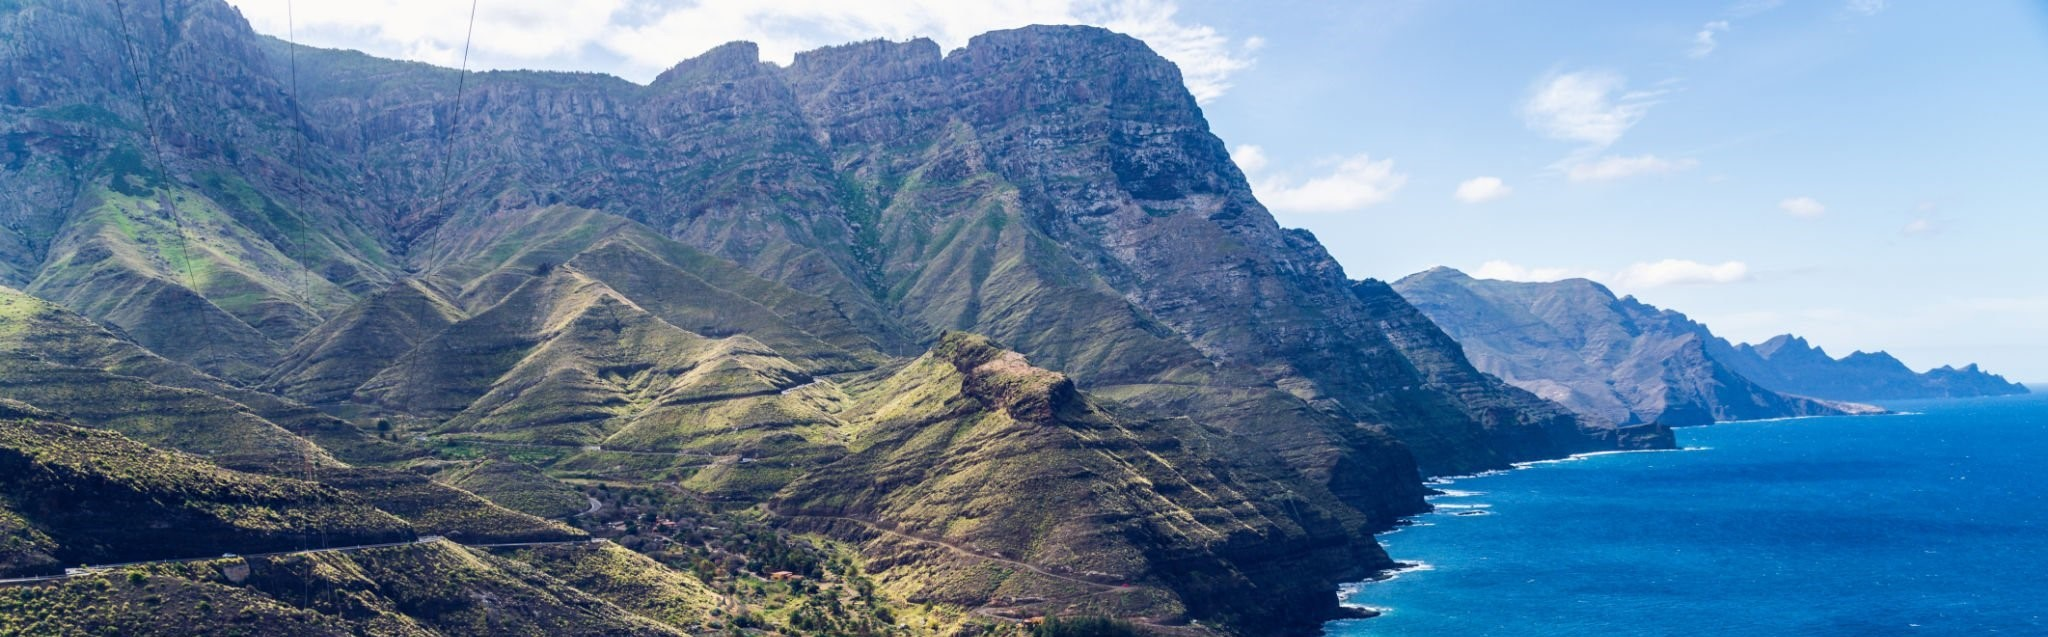
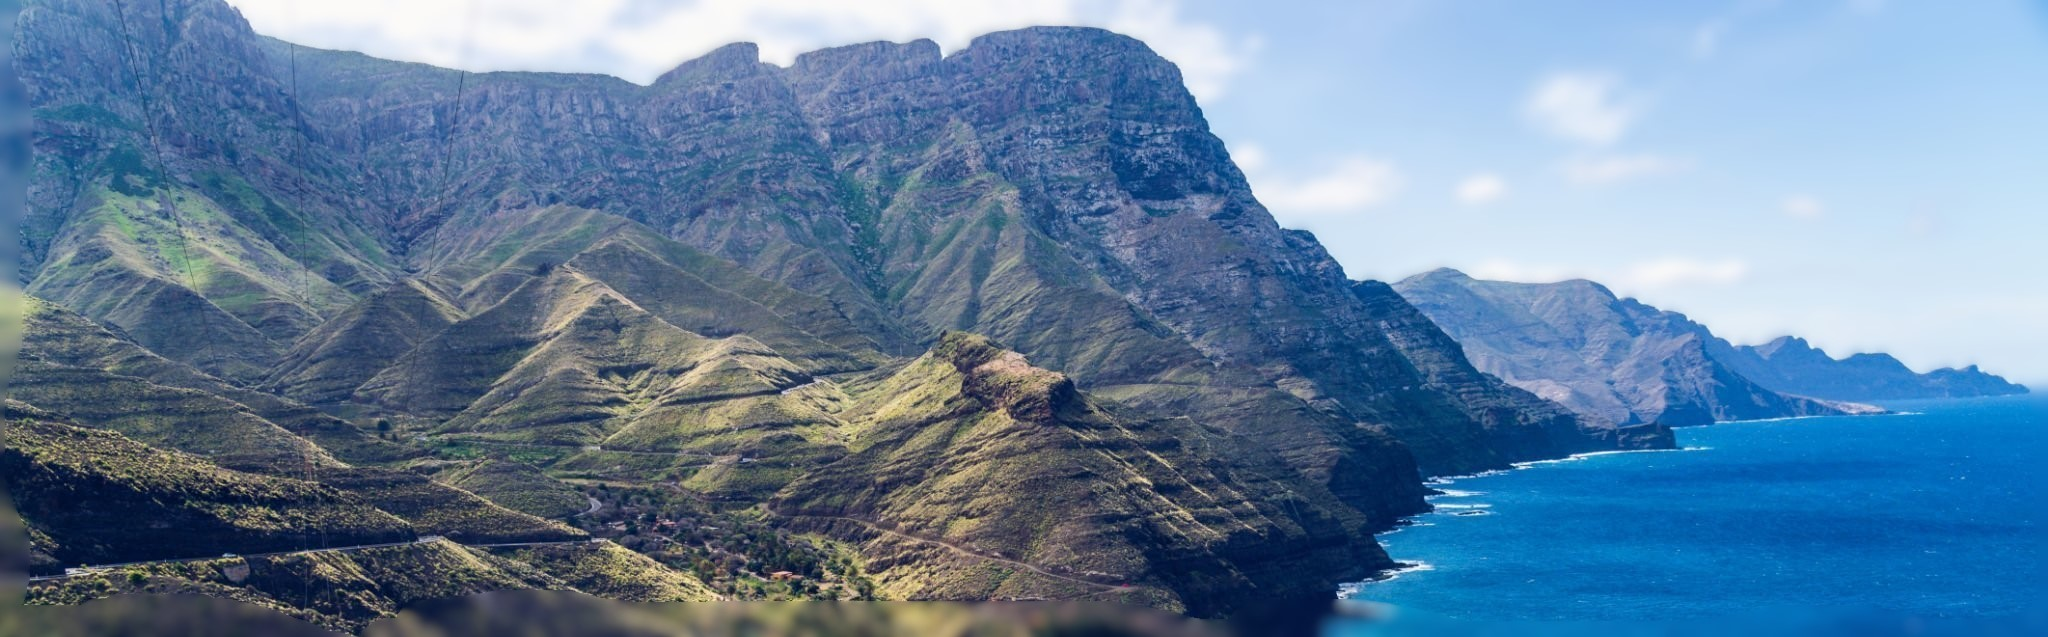
T26Completar10

diff --git a/HTML-CSS-JS/CSS/estiloT26-Ej10.css b/HTML-CSS-JS/CSS/estiloT26-Ej10.css
@@ -25,9 +25,33 @@ header {
 header img {
     width: 100%;
     height: auto;
-    border-radius: 15px 15px 0 0;
+    border-radius: 15px 15px 15px 15px;
+    filter: blur(10px); /* Aplicar efecto difuminado */
+    position: relative;
+    top: -8px;
+    left: -8px;
+    width: calc(100% + 16px);
+    height: calc(100% + 16px);
 }
 
+header .image-wrapper {
+    position: relative;
+    overflow: hidden;
+    border-radius: 15px 15px 0 0;
+    margin: 0 -8px; /* Ajustar para el efecto difuminado */
+}
+header .image-wrapper::before {
+        content: '';
+        position: absolute;
+        top: 0;
+        left: 0;
+        width: 100%;
+        height: 100%;
+        background: inherit;
+        filter: blur(15px);
+        clip-path: inset(5% round 15px);
+        z-index: 0;
+}
 .container h1 {
     font-size: 2.5em;
     color: #6B8E23;
@@ -39,28 +63,23 @@ header img {
     left: 50%;
     transform: translateX(-50%);
 }
-
 h1 .granate {
     color: #800000; /* Color granate */
 }
-
 nav {
     float: left;
     width: 200px;
     margin-right: 20px;
     padding-top: 20px;
 }
-
 nav ul {
     list-style-type: none;
     padding: 0;
     text-align: left;
 }
-
 nav ul li {
     margin-bottom: 10px;
 }
-
 nav ul li a {
     display: block;
     padding: 10px;
@@ -70,7 +89,6 @@ nav ul li a {
     border-radius: 5px;
     text-align: center;
 }
-
 nav ul li a:hover {
     background-color: #B0E57C;
     color: #333;
@@ -80,7 +98,6 @@ nav ul li a.active {
     background-color: #C0C0C0;
     color: #333;
 }
-
 .content {
     float: right;
     width: calc(100% - 260px); /* Adjusting for nav width and margin */
@@ -88,7 +105,6 @@ nav ul li a.active {
     background: linear-gradient(to top, #ffffff, #e4e4e4, #dddddd);
     border-radius: 15px 15px 15px 15px;
 }
-
 h2 {
     font-size: 2em;
     font-weight: bold;
@@ -99,28 +115,24 @@ h2 {
     border: 1px solid #BDB76B;
     border-radius: 5px;
 }
-
 h3 {
     font-size: 1.5em;
     font-weight: bold;
     color: #800000; /* Color granate */
     margin-top: 15px;
 }
-
 p {
     font-size: 1em;
     line-height: 1.6;
     margin-top: 10px;
     text-align: justify;
 }
-
 .box {
     border: 1px solid #BDB76B;
     background-color: #F5F5DC;
     padding: 10px;
     border-radius: 5px;
 }
-
 footer {
     text-align: center;
     padding: 10px;
@@ -129,7 +141,6 @@ footer {
     border-radius: 0 0 15px 15px;
     font-size: 0.9em;
 }
-
 .clearfix::after {
     content: "";
     clear: both;

diff --git a/HTML-CSS-JS/T26.EJERCICIOS/ParqueNatural/T26-Ej10Especies.html b/HTML-CSS-JS/T26.EJERCICIOS/ParqueNatural/T26-Ej10Especies.html
@@ -22,9 +22,11 @@
 <body>
     <div class="container">
         <header>
+            <div class="image-wrapper">
             <img src="/HTML-CSS-JS/T26.EJERCICIOS/ParqueNatural/img/parqueN.jpg" alt="Panorama del Parque Natural">
-            <h1>Parque Natural <span class="granate">Sierra Bicuerna</span></h1>
+            </div>
         </header>
+        <h1>Parque Natural <span class="granate">Sierra Bicuerna</span></h1>
         <div class="clearfix">
             <nav>
                 <ul>
@@ -33,10 +35,10 @@
                 <li><a href="reservas.html">Reservas</a></li>
                 <li><a href="galeria.html">Galería</a></li>
             </ul>
-        </nav>
-        <div class="content">
+            </nav>
+            <div class="content">
             <h2>Especies del parque</h2>
-            <div class="box">
+                <div class="box">
                 <p>Estos son algunos de los habitantes del parque:</p>
                 <h3>Nutria</h3>
                 <p>La nutria europea o paleártica (Lutra lutra) es un mamífero carnívoro de hábitat acuático.
@@ -51,12 +53,12 @@
                 <p>La gineta (Genetta genetta) es una especie de mamífero carnívoro. Son grandes trepadoras, 
                    muy ágiles y grandes cazadoras de pequeños animales. Aunque también se alimentan de los 
                    frutos del bosque que se pueden encontrar en el parque.</p>
+                </div>
             </div>
         </div>
-    </div>
     <footer>
         La imagen del título pertenece a <a href="https://www.flickr.com/photos/amagill/">AMagill</a> y se distribuye bajo licencia <a href="https://creativecommons.org/licenses/by-sa/2.0/">CreativeCommons</a>.
     </footer>
-</div>
+    </div>
 </body>
 </html>

diff --git a/HTML-CSS-JS/T26.EJERCICIOS/ParqueNatural/T26-Ej10Index.html b/HTML-CSS-JS/T26.EJERCICIOS/ParqueNatural/T26-Ej10Index.html
@@ -22,7 +22,9 @@
 <body>
     <div class="container">
         <header>
-            <img src="/HTML-CSS-JS/T26.EJERCICIOS/ParqueNatural/img/parqueN.jpg" alt="Panorama del Parque Natural">
+            <div class="image-wrapper">
+                <img src="/HTML-CSS-JS/T26.EJERCICIOS/ParqueNatural/img/parqueN.jpg" alt="Panorama del Parque Natural">
+            </div>
         </header>
         <h1>Parque Natural <span class="granate">Sierra Bicuerna</span></h1>
         <div class="clearfix">
@@ -33,7 +35,7 @@
                 <li><a href="reservas.html">Reservas</a></li>
                 <li><a href="galeria.html">Galería</a></li>
             </ul>
-        </nav>
+            </nav>
         <div class="content">
             <h2>Bienvenidos al Parque Natural</h2>
             <div class="box">
@@ -48,10 +50,11 @@
                     bajo la atenta mirada del martín pescador, esperando a la despistada trucha.</p>
             </div>
         </div>
-    </div>
+        </div>
     <footer>
-        La imagen del título pertenece a <a href="https://www.flickr.com/photos/amagill/">AMagill</a> y se distribuye bajo licencia <a href="https://creativecommons.org/licenses/by-sa/2.0/">CreativeCommons</a>.
+        La imagen del título pertenece a <a href="https://www.flickr.com/photos/amagill/">AMagill</a> y se distribuye bajo licencia 
+        <a href="https://creativecommons.org/licenses/by-sa/2.0/">CreativeCommons</a>.
     </footer>
-</div>
+    </div>
 </body>
 </html>
